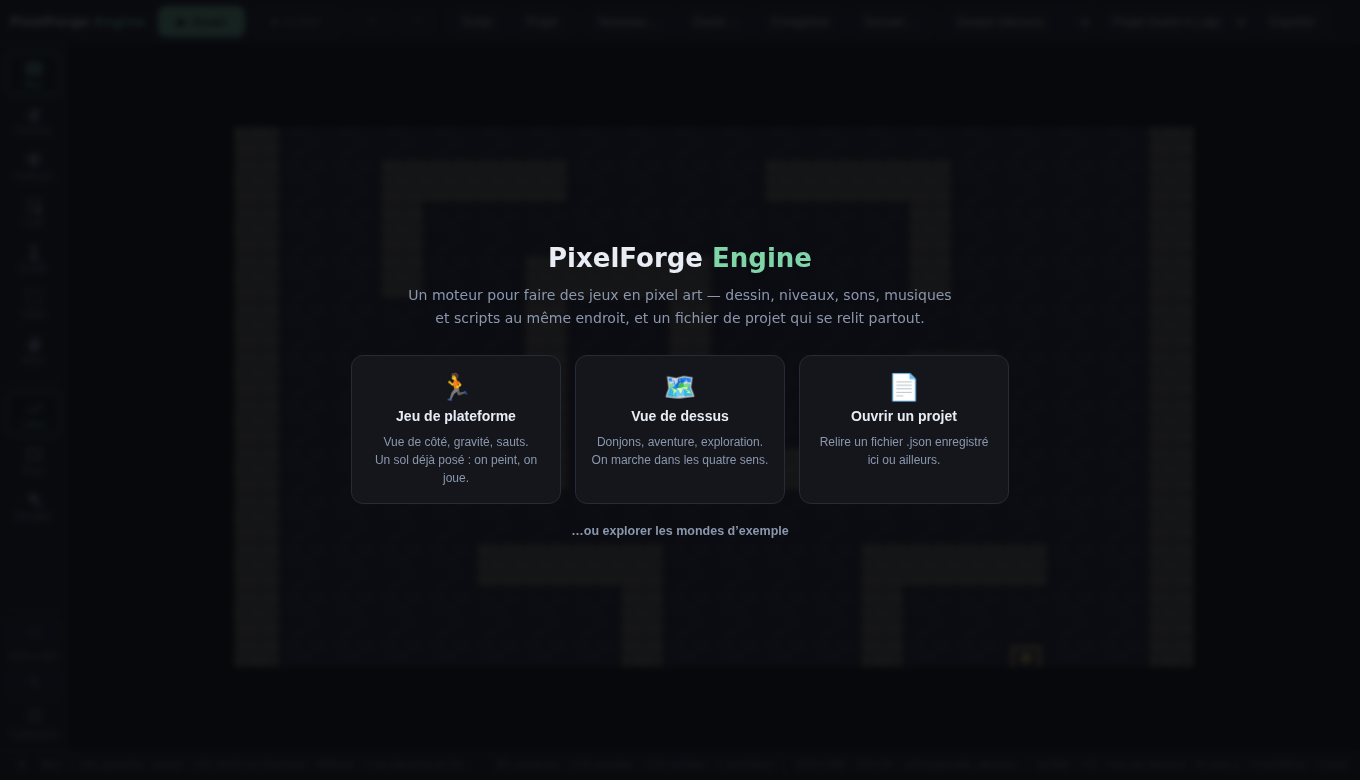
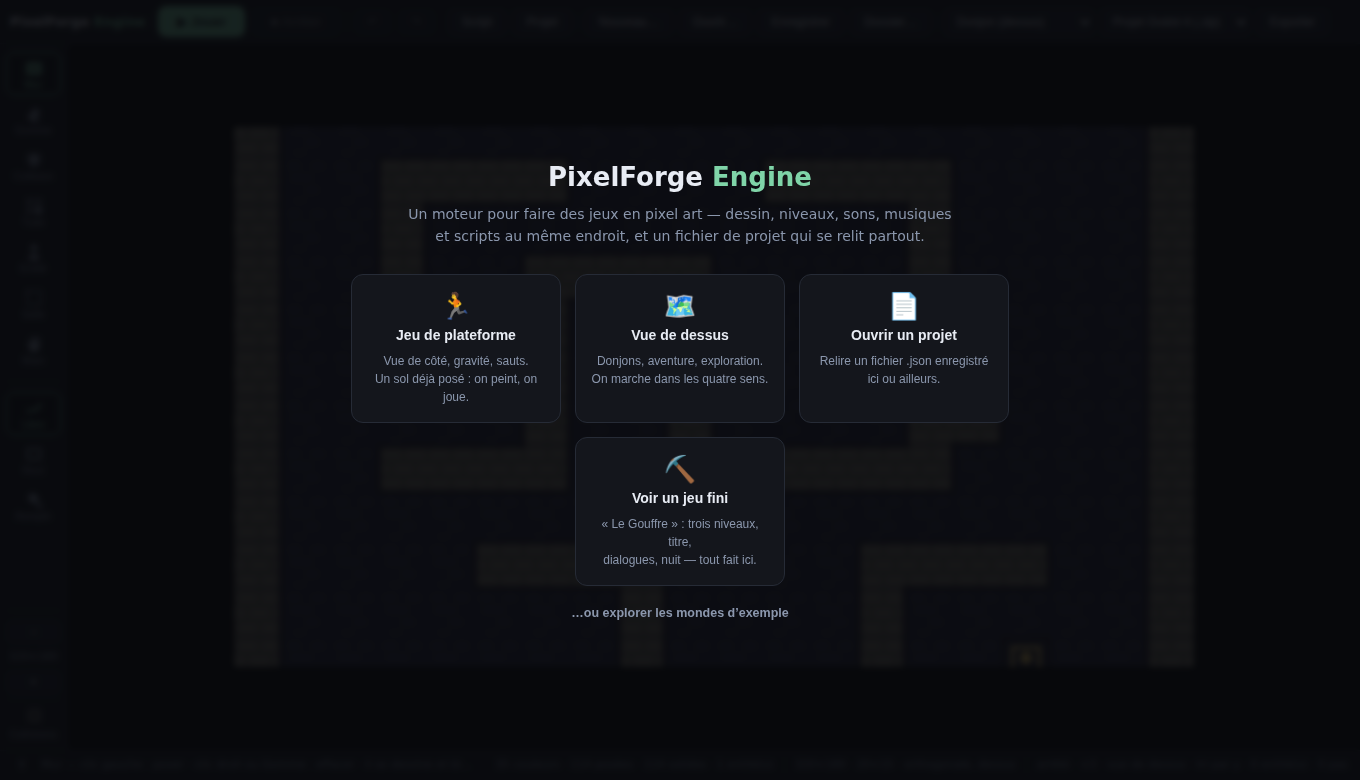
« Voir un jeu fini » : le jeu-témoin s'ouvre depuis l'accueil
Le Gouffre existait dans le dépôt et n'était accessible nulle part
dans l'interface. Une quatrième carte d'accueil le charge — par le
MÊME chemin qu'un fichier à soi, c'est toute sa valeur de vitrine :
un projet ordinaire, trois niveaux, titre, dialogues, nuit, fin, et
l'on peut l'ouvrir, le lire et le modifier comme n'importe quel
projet. Montrer ce que le moteur sait faire, sans le faire à la
place de personne.

Et une bavure de plus attrapée à l'écran : l'écran-titre du jeu se
dessinait encore À L'ARRÊT, par-dessus la vue d'édition. L'interface
du jeu — dialogue, titre, fin — ne se dessine qu'en jouant, comme
les cœurs.

Fumée : 119/119, l'accueil à quatre cartes compris.

Claude-Session: https://claude.ai/code/session_01VmVMdfrWJCxEWeszTz99Ch

Changed region(s): [[0.2779, 0.2154, 0.7412, 0.7385], [0.4324, 0.7692, 0.5868, 0.8]]

diff --git a/src/editeur/main.ts b/src/editeur/main.ts
@@ -530,6 +530,15 @@ document.getElementById('accueilOuvrir')?.addEventListener('click', () => {
   fermerAccueil()
   ;(document.getElementById('ouvrir') as HTMLButtonElement).click()
 })
+document.getElementById('accueilGouffre')?.addEventListener('click', () => {
+  fermerAccueil()
+  // Le jeu-temoin : un projet ORDINAIRE, relu par le meme chemin qu'un
+  // fichier a soi. C'est toute sa valeur de vitrine — rien de special.
+  void fetch('exemples/le-gouffre.json')
+    .then((r) => r.text())
+    .then((texte) => { relire(texte, 'le-gouffre.json') })
+    .catch(() => { verdict.textContent = 'L’exemple n’a pas pu être chargé.' })
+})
 document.getElementById('accueilExemples')?.addEventListener('click', fermerAccueil)
 accueil.addEventListener('click', (e) => { if (e.target === accueil) fermerAccueil() })
 window.addEventListener('keydown', (e) => { if (e.key === 'Escape' && !accueil.hidden) fermerAccueil() })

diff --git a/src/editeur/monde-projet.ts b/src/editeur/monde-projet.ts
@@ -510,6 +510,10 @@ export function mondeDepuisProjet(
       const dessinAvant = jeu.apresDessin
       jeu.apresDessin = (ctx, ecran) => {
         dessinAvant?.(ctx, ecran)
+        // L'interface du JEU — dialogue, titre, fin — ne se dessine qu'en
+        // jouant : a l'arret, on edite, et un ecran-titre pose sur la vue
+        // d'edition cacherait ce qu'on est en train de faire.
+        if (!jeu.tourne) return
         // Les coeurs et etincelles du NIVEAU COURANT : c'est une capture par
         // paire, et non un branchement global, pour que changer de carte
         // change aussi la jauge qu'on regarde. Et seulement PENDANT le jeu :

diff --git a/index.html b/index.html
@@ -119,6 +119,11 @@
             <b>Ouvrir un projet</b>
             <span>Relire un fichier .json enregistré<br/>ici ou ailleurs.</span>
           </button>
+          <button class="accueil-carte" id="accueilGouffre">
+            <span class="accueil-icone">⛏</span>
+            <b>Voir un jeu fini</b>
+            <span>« Le Gouffre » : trois niveaux, titre,<br/>dialogues, nuit — tout fait ici.</span>
+          </button>
         </div>
         <button class="lien accueil-exemples" id="accueilExemples">…ou explorer les mondes d’exemple</button>
       </div>
